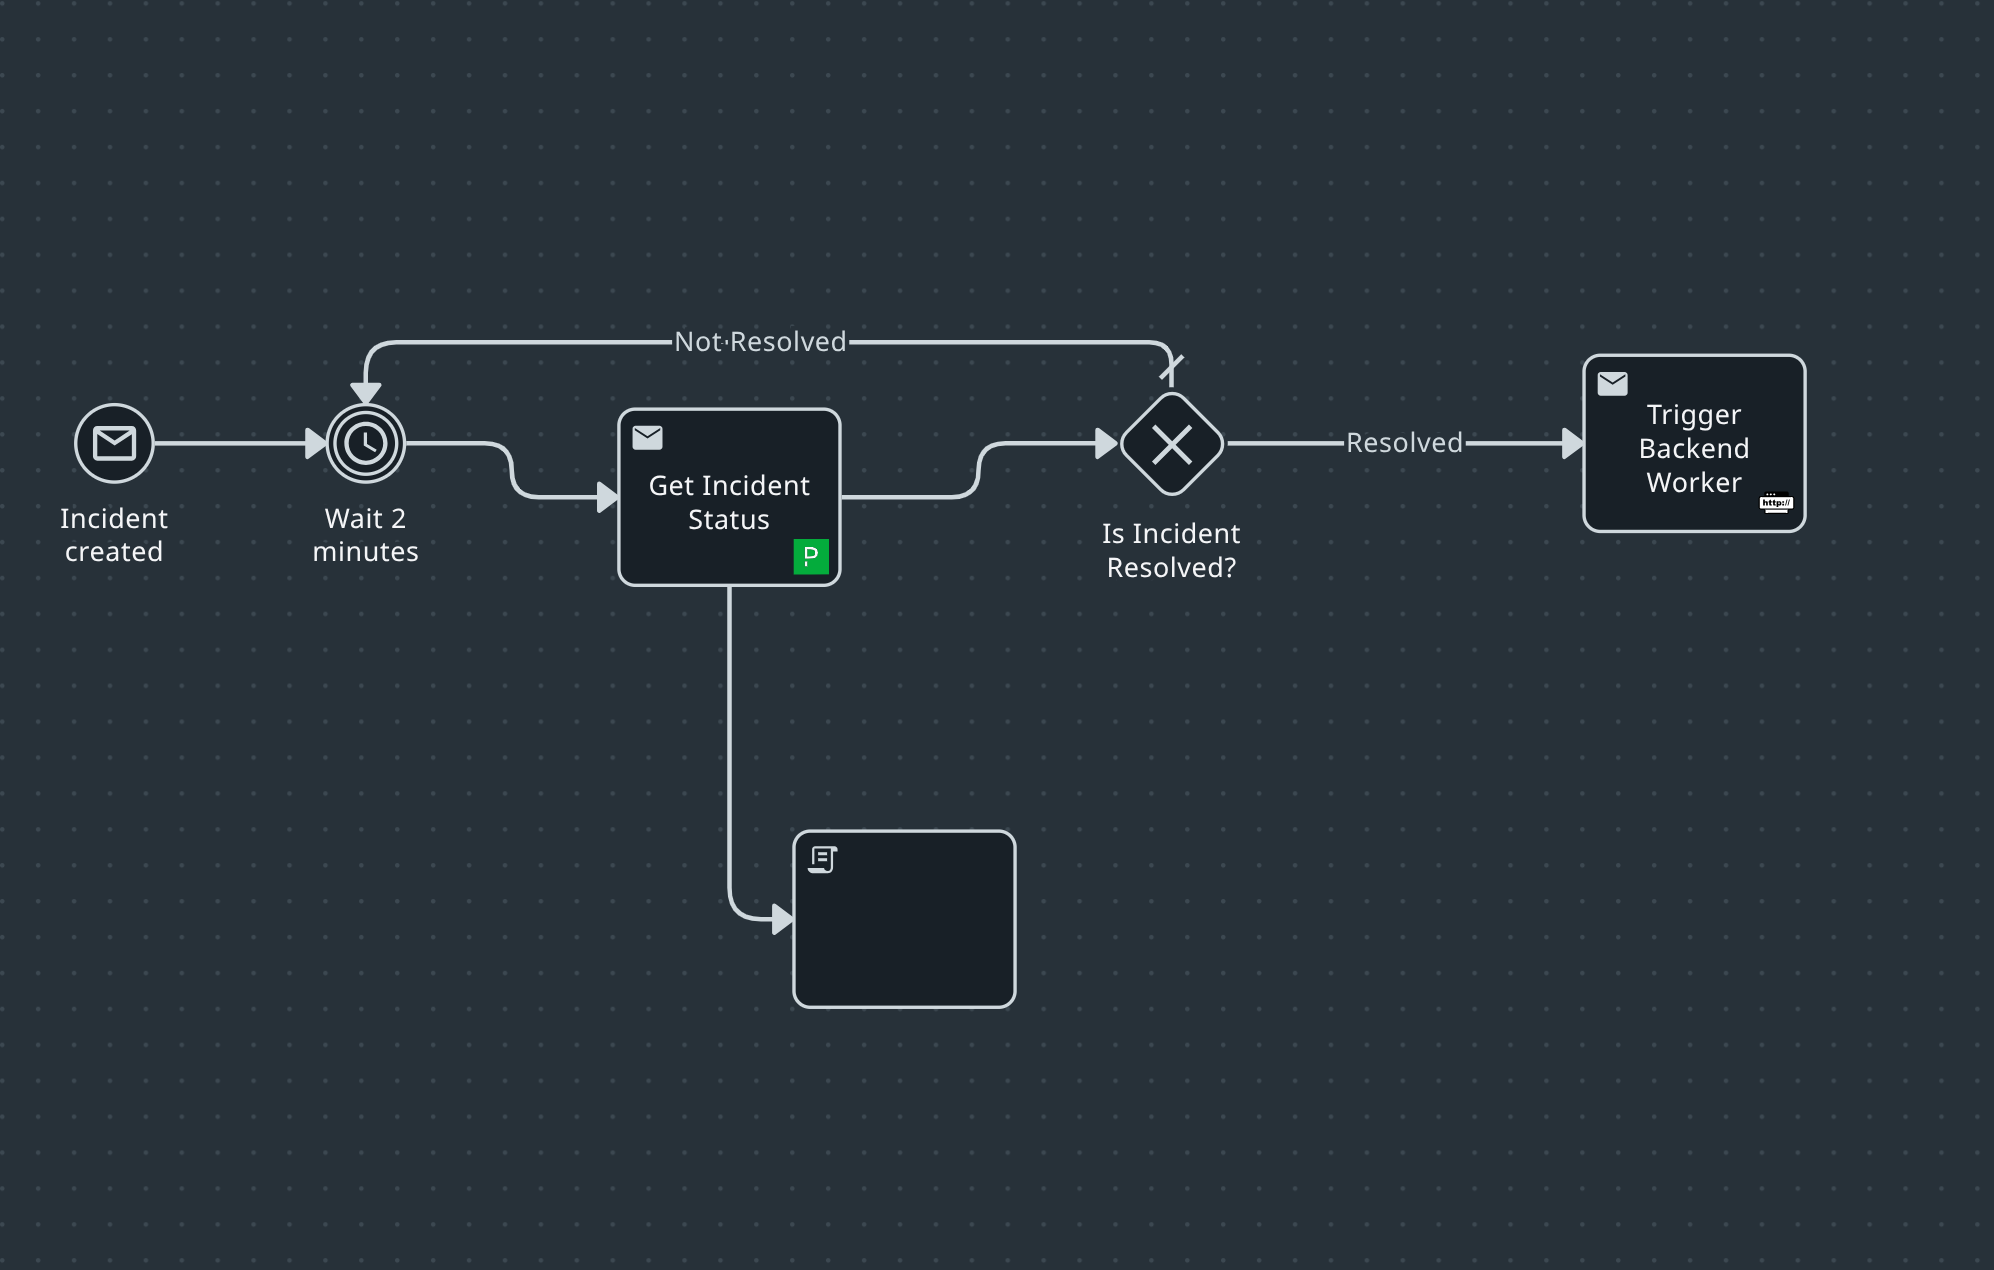
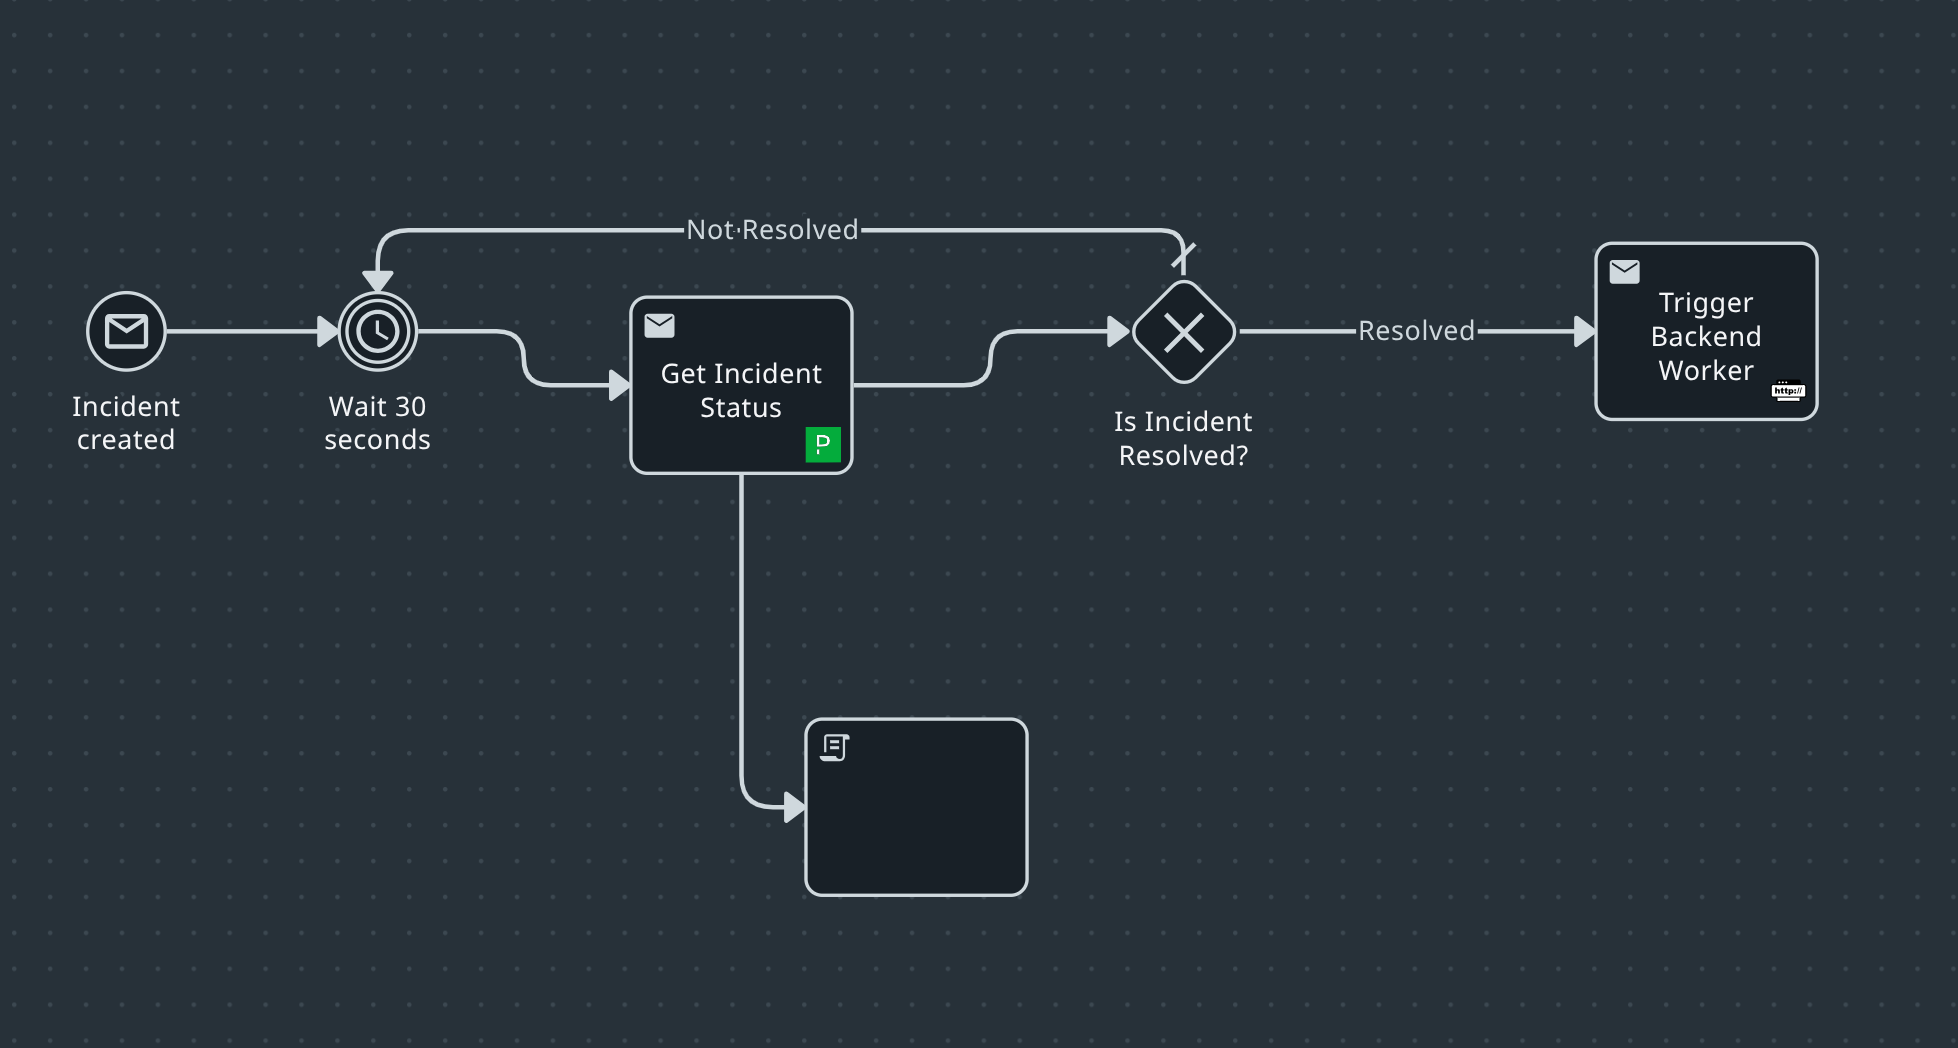
docs: update Maestro timer to 30 seconds

Changed region(s): [[0.0312, 0.2137, 0.9346, 0.4885], [0.3739, 0.6412, 0.5296, 0.855]]

diff --git a/README.md b/README.md
@@ -16,7 +16,11 @@ This solution relies heavily on the **UiPath Automation Cloud** for orchestratio
 
 ![Maestro Workflow](imgs/maestro%20workflow.png)
 
-* **UiPath Maestro (BPMN):** The core orchestration engine. As shown in the workflow diagram above, Maestro triggers our backend webhook (`server.py`) when an incident is marked resolved. The BPMN logic dictates the precise flow of the automation.
+* **UiPath Maestro (BPMN):** The core orchestration engine. As shown in the workflow diagram above, Maestro orchestrates the entire incident resolution lifecycle using several key BPMN elements:
+  * **Message Start Event:** Triggers the workflow automatically when a new incident is created.
+  * **Timer Event & PagerDuty Integration:** Uses a polling loop with a "Wait 30 seconds" timer and a PagerDuty connector to continuously fetch the incident status.
+  * **Exclusive Gateway:** Checks "Is Incident Resolved?". If not, it loops back; if yes, it breaks the loop.
+  * **HTTP Request Task:** Once resolved, it fires a POST request to trigger our backend webhook (`server.py`) to generate the Post-Mortem.
 * **UiPath Orchestrator & Queues:** Once the PDF is generated, our python API client (`uipath_client.py`) authenticates via OAuth 2.0 (using Confidential Applications and Folder IDs) to push the final status back into an Orchestrator Queue for human review.
 
 ## Agent Architecture & AI Integration